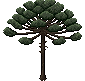
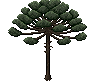
Blow harder: the wind in the trees could hardly be seen

diff --git a/src/fx/wind.ts b/src/fx/wind.ts
@@ -11,8 +11,8 @@ import Phaser from 'phaser';
 // A tree moves as one: where it stands and what sets it apart from the next
 // are told to the shader through its tint, which is not used as a colour.
 // Every drawing given it must be the same size.
-const STRENGTH = 1.6;   // how far a steady wind carries the very top, in pixels of the drawing
-const RUSTLE = 0.9;     // how readily the crown shivers, from 0 (never)
+const STRENGTH = 4;     // how far a steady wind carries the very top, in pixels of the drawing
+const RUSTLE = 1.6;     // how readily the crown shivers, from 0 (never)
 const fragShader = `
 #define SHADER_NAME WIND_FS
 #ifdef GL_FRAGMENT_PRECISION_HIGH
@@ -56,15 +56,15 @@ void main() {
 
   // Swells some nine hundred pixels long, passing from left to right.
   float gust = smoothstep(0.3, 0.8, drift(vec2(across / 900.0 - uTime * 0.35, 0.5)));
-  float lean = uStrength * (0.2 + gust);
-  lean += uStrength * 0.3 * (0.4 + gust) * sin(uTime * (1.5 + own) + own * 6.2832);
+  float lean = uStrength * (0.15 + gust);
+  lean += uStrength * 0.45 * (0.4 + gust) * sin(uTime * (1.8 + own) + own * 6.2832);
   // The whole tree bends from its foot, a little more steeply toward the top.
   // It is slid by whole pixels of the screen, so it moves smoothly at any size.
   float slid = floor(lean * pow(up, 1.3) * shown + 0.5) / shown;
 
   // The shiver, only up in the crown and only when it blows.
   float crown = step(0.45, up);
-  float shiver = drift(pixel * 0.22 + vec2(uTime * 1.7, uTime * 0.4) + own * 31.0) * 2.0 - 1.0;
+  float shiver = drift(pixel * 0.22 + vec2(uTime * 2.6, uTime * 0.6) + own * 31.0) * 2.0 - 1.0;
   slid += crown * floor(shiver * uRustle * (0.3 + gust) + 0.5);
 
   vec2 uv = vec2(outTexCoord.x - slid / uSize.x, outTexCoord.y);

diff --git a/tools/build_forest_trees.py b/tools/build_forest_trees.py
@@ -16,7 +16,7 @@ from PIL import Image
 ROOT = Path(__file__).resolve().parent.parent / 'assets' / 'bosque'
 # The concept each tree comes from.
 TREES = {'araucaria_a': 'araucaria_e', 'araucaria_b': 'araucaria_f', 'araucaria_c': 'araucaria_g'}
-MARGIN = 3  # pixels of room at each side
+MARGIN = 8  # pixels of room at each side
 
 cut = {}
 for name, concept in TREES.items():
